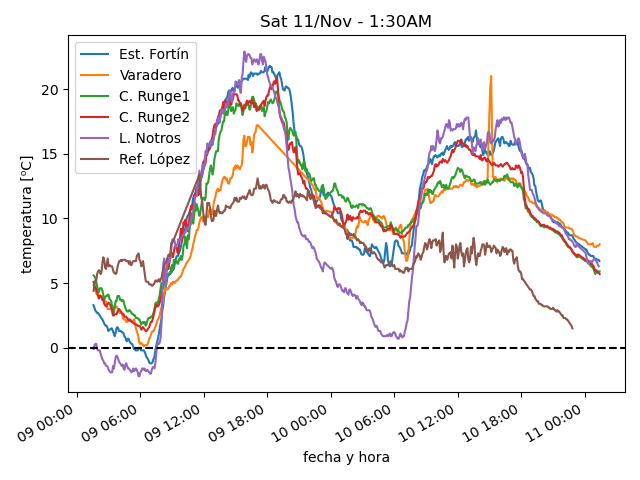
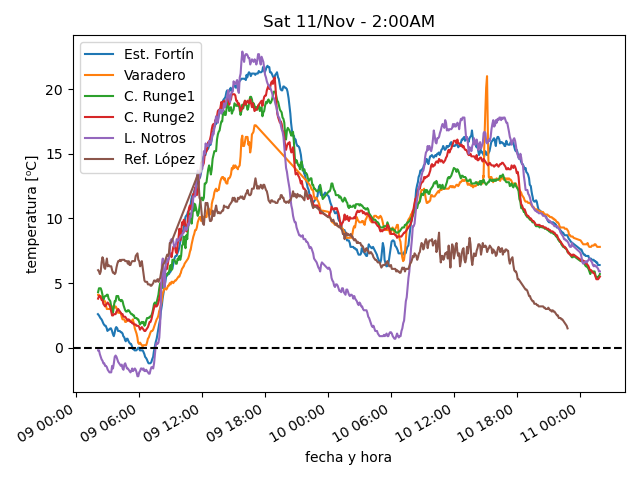
actualiza datos

diff --git a/estaciones/estacion4.html b/estaciones/estacion4.html
@@ -18,37 +18,37 @@
     </tr>
     <tr>
      <td class="stats_data">
-      1:24AM
+      1:54AM
      </td>
     </tr>
     <tr>
      <td class="stats_data">
-      5.7⁰C
+      5.5⁰C
      </td>
     </tr>
     <tr>
      <td class="stats_data">
-      3.2⁰C
+      3.5⁰C
      </td>
     </tr>
     <tr>
      <td class="stats_data">
-      84.3%
+      87.0%
      </td>
     </tr>
     <tr>
      <td class="stats_data">
-      1003.32hPa
+      1003.01hPa
      </td>
     </tr>
     <tr>
      <td class="stats_data">
-      4.2/6.2 km/hr SSE
+      3.7/5.3 km/hr SSW
      </td>
     </tr>
     <tr>
      <td class="stats_data">
-      0.0 / 0.0 mm
+      0.2 / 1.19 mm
      </td>
     </tr>
     <tr>

diff --git a/estaciones/estacion2.html b/estaciones/estacion2.html
@@ -18,32 +18,32 @@
     </tr>
     <tr>
      <td class="stats_data">
-      1:24AM
+      1:54AM
      </td>
     </tr>
     <tr>
      <td class="stats_data">
-      8.0⁰C
+      7.8⁰C
      </td>
     </tr>
     <tr>
      <td class="stats_data">
-      4.3⁰C
+      4.1⁰C
      </td>
     </tr>
     <tr>
      <td class="stats_data">
-      77.7%
+      77.5%
      </td>
     </tr>
     <tr>
      <td class="stats_data">
-      1009.31hPa
+      1008.94hPa
      </td>
     </tr>
     <tr>
      <td class="stats_data">
-      22.1/25.8 km/hr NNW
+      23.8/28.0 km/hr NNW
      </td>
     </tr>
     <tr>

diff --git a/estaciones/estacion3.html b/estaciones/estacion3.html
@@ -18,32 +18,32 @@
     </tr>
     <tr>
      <td class="stats_data">
-      1:24AM
+      1:54AM
      </td>
     </tr>
     <tr>
      <td class="stats_data">
-      5.9⁰C
+      5.7⁰C
      </td>
     </tr>
     <tr>
      <td class="stats_data">
-      3.6⁰C
+      3.9⁰C
      </td>
     </tr>
     <tr>
      <td class="stats_data">
-      85.3%
+      88.6%
      </td>
     </tr>
     <tr>
      <td class="stats_data">
-      994.21hPa
+      994.04hPa
      </td>
     </tr>
     <tr>
      <td class="stats_data">
-      13.7/19.5 km/hr NNW
+      9.9/12.9 km/hr NW
      </td>
     </tr>
     <tr>

diff --git a/estaciones/estacion1.html b/estaciones/estacion1.html
@@ -18,32 +18,32 @@
     </tr>
     <tr>
      <td class="stats_data">
-      1:23AM
+      1:53AM
      </td>
     </tr>
     <tr>
      <td class="stats_data">
-      6.7⁰C
+      6.4⁰C
      </td>
     </tr>
     <tr>
      <td class="stats_data">
-      2.0⁰C
+      2.1⁰C
      </td>
     </tr>
     <tr>
      <td class="stats_data">
-      72.0%
+      74.0%
      </td>
     </tr>
     <tr>
      <td class="stats_data">
-      1001.69hPa
+      1001.36hPa
      </td>
     </tr>
     <tr>
      <td class="stats_data">
-      3.2/6.4 km/hr WSW
+      0.7/2.4 km/hr SW
      </td>
     </tr>
     <tr>

diff --git a/estaciones/estacion5.html b/estaciones/estacion5.html
@@ -18,32 +18,32 @@
     </tr>
     <tr>
      <td class="stats_data">
-      1:20AM
+      1:55AM
      </td>
     </tr>
     <tr>
      <td class="stats_data">
-      6.3⁰C
+      5.9⁰C
      </td>
     </tr>
     <tr>
      <td class="stats_data">
-      2.4⁰C
+      2.7⁰C
      </td>
     </tr>
     <tr>
      <td class="stats_data">
-      76.0%
+      80.0%
      </td>
     </tr>
     <tr>
      <td class="stats_data">
-      1004.84hPa
+      1004.78hPa
      </td>
     </tr>
     <tr>
      <td class="stats_data">
-      0.0/6.1 km/hr N
+      0.0/0.0 km/hr N
      </td>
     </tr>
     <tr>
